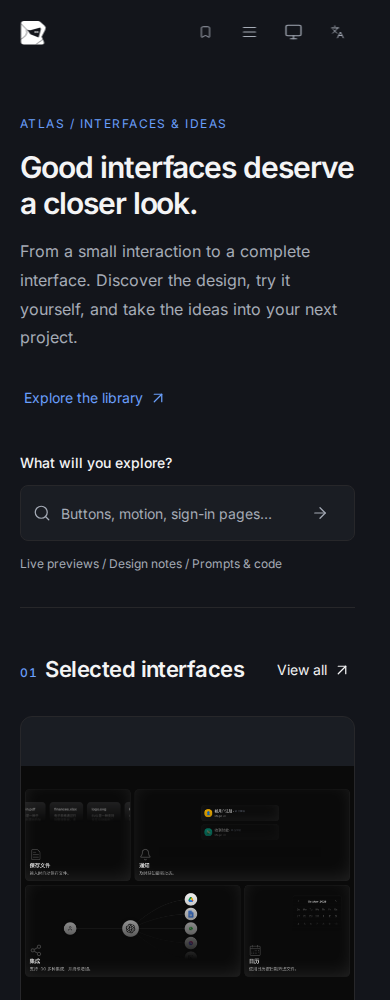
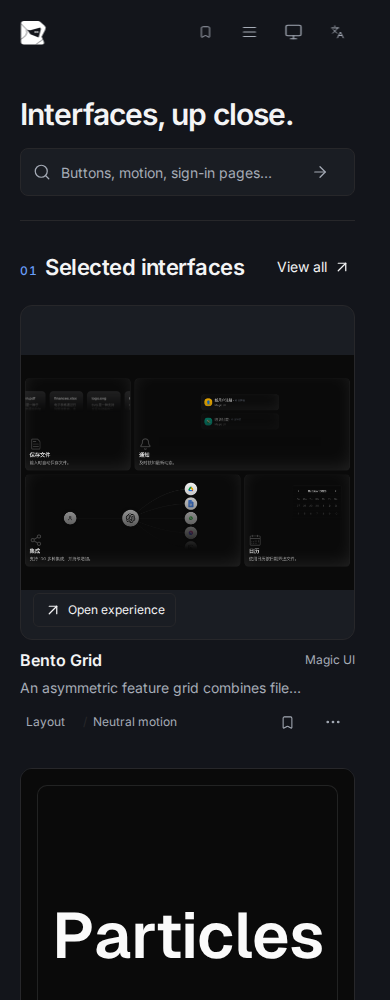
Simplify discovery copy and tighten gallery card density

diff --git a/atlas/styles/browse.css b/atlas/styles/browse.css
@@ -142,16 +142,19 @@
   margin-bottom: 24px;
 }
 .library-page .market-grid {
-  gap: 32px 24px;
+  gap: 24px 16px;
 }
 .library-page .asset-preview {
   border-radius: var(--card-radius);
   background: var(--panel);
 }
 .library-page .asset-caption {
-  display: grid;
-  gap: 4px;
-  padding: 16px 0 0;
+  display: flex;
+  gap: 8px;
+  padding: 8px 0 0;
+}
+.library-page .asset-caption > a {
+  flex: 1;
 }
 .library-page .asset-caption > a {
   font-size: 16px;
@@ -161,11 +164,13 @@
 .library-page .asset-libraries {
   margin: 0;
   height: 20px;
+  max-width: 35%;
+  overflow: hidden;
 }
 .library-page .library-badge {
   font-size: 12px;
   line-height: 20px;
-  max-width: 240px;
+  max-width: 100%;
 }
 .asset-footer .resource-tags a {
   border: 0;
@@ -177,61 +182,35 @@
   margin-right: 6px;
   color: var(--line-strong);
 }
-.asset-footer {
-  border-top: 1px solid var(--line);
-  padding-top: 8px;
-  height: 44px;
-}
 .discovery-intro {
   display: grid;
   grid-template-columns: 1.2fr 1fr;
-  gap: 64px;
-  align-items: end;
-  padding: 32px 0;
+  gap: 32px;
+  align-items: center;
+  padding: 16px 0 24px;
   border-bottom: 1px solid var(--line);
 }
 .discovery-intro h1 {
   font-size: var(--text-page);
   line-height: 1.2;
   letter-spacing: -0.035em;
-  margin: 16px 0;
-  max-width: 16ch;
-}
-.discovery-intro p {
-  font-size: 16px;
-  line-height: 1.8;
-  color: var(--muted-text);
-  max-width: 46ch;
-}
-.discovery-intro .text-link {
-  margin-top: 24px;
-  color: var(--action);
+  margin: 0;
 }
 .discovery-search {
   width: 100%;
 }
-.discovery-search > label {
-  display: block;
-  font-size: 14px;
-  font-weight: 500;
-  margin-bottom: 12px;
-}
 .discovery-search .market-search {
   max-width: none;
   background: var(--panel);
-  min-height: 56px;
+  min-height: 48px;
 }
 .discovery-search input {
-  height: 54px;
+  height: 46px;
   font-size: 16px;
-}
-.discovery-search > p {
-  margin-top: 12px;
-  font-size: 12px;
 }
 .discovery-section-heading {
   gap: 16px;
-  margin-bottom: 24px;
+  margin-bottom: 16px;
 }
 .discovery-section-heading h2 {
   display: flex;
@@ -304,9 +283,6 @@
     margin-left: 0;
     max-width: none;
   }
-  .discovery-intro {
-    gap: 32px;
-  }
   .guidance-entry {
     align-items: start;
     flex-direction: column;
@@ -323,10 +299,8 @@
   }
   .discovery-intro {
     grid-template-columns: minmax(0, 1fr);
-    padding: 24px 0 32px;
-  }
-  .discovery-intro h1 {
-    max-width: 20ch;
+    gap: 16px;
+    padding: 8px 0 24px;
   }
   .discovery-section-heading h2 {
     font-size: 22px;
@@ -344,7 +318,7 @@
 }
 
 .featured-section.discovery-section {
-  margin-top: 40px;
+  margin-top: 24px;
 }
 .asset-actions [data-shell-mounted="card-menu"] {
   display: flex;

diff --git a/atlas/browse.js b/atlas/browse.js
@@ -99,7 +99,7 @@ export function createBrowse({
     /** @param {string} number @param {string} title @param {string} destination @param {string} label */
     const heading = (number, title, destination, label) =>
       `<div class="discovery-section-heading"><h2><span class="section-number">${number}</span>${title}</h2><a class="text-link" href="${destination}">${label}${icon("arrow-up-right")}</a></div>`;
-    return `<section class="discovery-intro"><div><span class="guidance-eyebrow">ATLAS / ${t("界面与灵感", "INTERFACES & IDEAS")}</span><h1>${t("好界面，值得细看。", "Good interfaces deserve a closer look.")}</h1><p>${t("从一个微小的交互，到一套完整的界面。发现设计，亲手体验，把灵感带进你的下一个项目。", "From a small interaction to a complete interface. Discover the design, try it yourself, and take the ideas into your next project.")}</p><a class="text-link" href="${href("explore")}">${t("浏览全部资源", "Explore the library")}${icon("arrow-up-right")}</a></div><form id="discovery-search" class="discovery-search"><label for="discovery-query">${t("你想探索什么？", "What will you explore?")}</label><div class="market-search">${icon("search")}<input id="discovery-query" name="q" type="search" aria-label="${t("搜索 UI", "Search UI")}" placeholder="${t("按钮、动效、登录页面…", "Buttons, motion, sign-in pages…")}"><button type="submit" class="icon-button" aria-label="${t("搜索", "Search")}">${icon("arrow-right")}</button></div><p>${t("交互预览 / 设计解读 / 提示词与源码", "Live previews / Design notes / Prompts & code")}</p></form></section>
+    return `<section class="discovery-intro"><h1>${t("好界面，值得细看。", "Interfaces, up close.")}</h1><form id="discovery-search" class="discovery-search"><div class="market-search">${icon("search")}<input id="discovery-query" name="q" type="search" aria-label="${t("搜索 UI", "Search UI")}" placeholder="${t("按钮、动效、登录页面…", "Buttons, motion, sign-in pages…")}"><button type="submit" class="icon-button" aria-label="${t("搜索", "Search")}">${icon("arrow-right")}</button></div></form></section>
     <section class="featured-section discovery-section">${heading("01", t("精选界面", "Selected interfaces"), href("explore"), t("查看全部", "View all"))}<div class="market-grid discovery-grid">${items.map(card).join("")}</div></section>
     <section class="discovery-section collection-section">${heading("02", t("沿着主题探索", "Follow a theme"), href("explore"), t("探索资源", "Explore resources"))}<div class="discovery-collections">${discovery.collections
       .map((c) => {

diff --git a/atlas/styles/preview.css b/atlas/styles/preview.css
@@ -1,9 +1,13 @@
 /* Interactive resource gallery. Information and actions never cover the demo. */
 .library-page .market-grid {
   container-type: inline-size;
-  --preview-unit: calc((100cqw - 48px) / 3);
-  grid-template-columns: repeat(3, minmax(0, 1fr));
+  --preview-unit: calc((100cqw - 48px) / 4);
+  grid-template-columns: repeat(4, minmax(0, 1fr));
   align-items: start;
+}
+.library-page .systems-section .market-grid {
+  --preview-unit: calc((100cqw - 32px) / 3);
+  grid-template-columns: repeat(3, minmax(0, 1fr));
 }
 .library-page .asset-card[data-layout="wide"] {
   grid-column: auto;
@@ -67,12 +71,12 @@
 }
 .library-page .asset-description {
   opacity: 1;
-  min-height: 48px;
-  height: 48px;
+  min-height: 24px;
+  height: 24px;
   line-height: 24px;
   font-size: 14px;
-  margin: 8px 0;
-  -webkit-line-clamp: 2;
+  margin: 4px 0 0;
+  -webkit-line-clamp: 1;
 }
 .resource-tags {
   display: flex;
@@ -111,7 +115,7 @@
   align-items: center;
   justify-content: space-between;
   gap: 8px;
-  height: 44px;
+  height: 32px;
 }
 .asset-footer .resource-tags a {
   min-height: 24px;
@@ -146,12 +150,20 @@
 }
 @media (max-width: 1199px) {
   .library-page .market-grid {
-    --preview-unit: calc((100cqw - 24px) / 2);
+    --preview-unit: calc((100cqw - 32px) / 3);
+    grid-template-columns: repeat(3, minmax(0, 1fr));
+  }
+}
+@media (max-width: 899px) {
+  .library-page .market-grid,
+  .library-page .systems-section .market-grid {
+    --preview-unit: calc((100cqw - 16px) / 2);
     grid-template-columns: repeat(2, minmax(0, 1fr));
   }
 }
 @media (max-width: 599px) {
-  .library-page .market-grid {
+  .library-page .market-grid,
+  .library-page .systems-section .market-grid {
     --preview-unit: 100cqw;
     grid-template-columns: minmax(0, 1fr);
   }
@@ -160,7 +172,7 @@
     grid-column: auto;
   }
   .asset-footer {
-    height: 56px;
+    height: 44px;
   }
   .asset-actions .icon-button,
   .asset-actions .atlas-menu-trigger,

diff --git a/docs/ui/editorial-atlas/README.md b/docs/ui/editorial-atlas/README.md
@@ -7,12 +7,13 @@
 - 保留折角标识，以近白 / 深灰表面和蓝色操作色组织层次。共享变量位于 `shell/theme.css`，主站样式按基础、浏览、导航、预览、指导划分，复用现有字体和 Radix 控件。
 - 页面标题为桌面 40px、手机 30px，区块标题 24px，卡片标题 16–18px，正文 14–16px，辅助文字至少 12px。详情标题按紧凑工具栏和说明栏单独处理。布局以 8px 间距组织，控件和卡片统一圆角，阴影用于浮层。
 - 主导航保留发现、资源库、设计指导、资源导航，收藏为独立快捷入口。完整案例属于资源库类型导航；旧路由仍有效，资源库导航记住最近类型。
-- 发现页依次展示介绍和搜索、八个精选界面、主题合集、完整案例、设计指导入口。只有首个精选卡片跨列，普通列表使用等宽网格。首页搜索和旧发现页筛选链接转入资源库并保留条件。
-- 分类和分面集中在筛选面板，选中条件保持可见并可逐项删除。卡片展示标题、来源、简介和最多两个标签，收藏常显，复制和详情收入可键盘 / 触屏操作的更多菜单。菜单关闭及详情返回恢复触发器焦点。
+- 发现页依次展示标题和搜索、八个精选界面、主题合集、完整案例、设计指导入口。首屏移除重复介绍、副标和额外导流链接，保留各区块的查看全部。只有首个精选卡片跨列，普通列表使用等宽网格。首页搜索和旧发现页筛选链接转入资源库并保留条件。
+- 宽屏资源网格使用四列、16px 列间距；1199px 及以下三列、899px 及以下两列、599px 及以下一列。完整案例专区使用三列并随窄屏收拢。名称和来源同行，简介一行，移除卡片底部分隔线和多余留白，移动端菜单和收藏仍保留 44px 触控尺寸。
+- 分类和分面集中在筛选面板，选中条件保持可见并可逐项删除。卡片展示标题、来源、简介和最多两个标签，收藏常显，复制和详情收入可键盘 / 触屏操作的更多菜单。完整简介可在详情阅读，桌面悬停简介也可查看全文。菜单关闭及详情返回恢复触发器焦点。
 - 详情依次组织简介、设计解读、提示词、来源与关联内容。提示词全文和来源可折叠，复制无需展开。说明层独立滚动，开关与折叠不改变预览尺寸或位置。
 - 指导、导航、收藏共用标题、卡片和空状态规则，阅读正文限制宽度。组合器分为项目需求、方法与参考、交付要求，宽屏双栏，900px 及以下纵向排列。
 
-为了保持启动脚本预算，来源页和使用指南按需加载；最终生产构建启动脚本 gzip 为 **189,141 字节**，低于 190,000 字节上限。预算未放宽。
+为了保持启动脚本预算，来源页和使用指南按需加载；最终生产构建启动脚本 gzip 为 **188,843 字节**，低于 190,000 字节上限。预算未放宽。
 
 ## 前后对比
 
@@ -28,9 +29,15 @@
 
 ![发现页改版后](after-home.png)
 
+### 首屏与卡片密度调整
+
+以 `d032cb5` 的首页为调整前基线，在 1440 × 1000 的窗口实测：介绍区由约 292px 缩至 89px，卡片说明区由 172px 缩至 92px，预览高度由约 389px 缩至 292px。首行展示三个精选资源，后续普通行展示四个；首张卡片由距顶部约 504px 提前至 277px。移动端说明区为 104px，保持完整触控尺寸。
+
+[密度调整前](before-density-home.png) · [调整后](after-density-home.png) · [调整后深色](after-density-home-dark.png)。前后浅色截图使用相同窗口与路由；调整前图片保留自上一阶段的验收截图。
+
 ## 验收范围与证据
 
-`npm run check` 通过目录校验、主站及两个示例的类型检查和 21 项单元测试。最终 `npm test` 完成生产构建和 184 项浏览器测试：Chromium 166 项、Firefox 9 项、WebKit 9 项全部通过。
+`npm run check` 通过目录校验、主站及两个示例的类型检查和 21 项单元测试。`npm test` 完成生产构建和全量浏览器回归；一处旧测试仍要求宽屏三列，按当前四列规则更新断言后，对同一构建使用 `npm run test:built -- --project=chromium tests/gallery.spec.mjs` 复验。最终 184 项浏览器用例均通过：Chromium 166 项、Firefox 9 项、WebKit 9 项。
 
 | 验收内容 | 对应流程 |
 | --- | --- |
